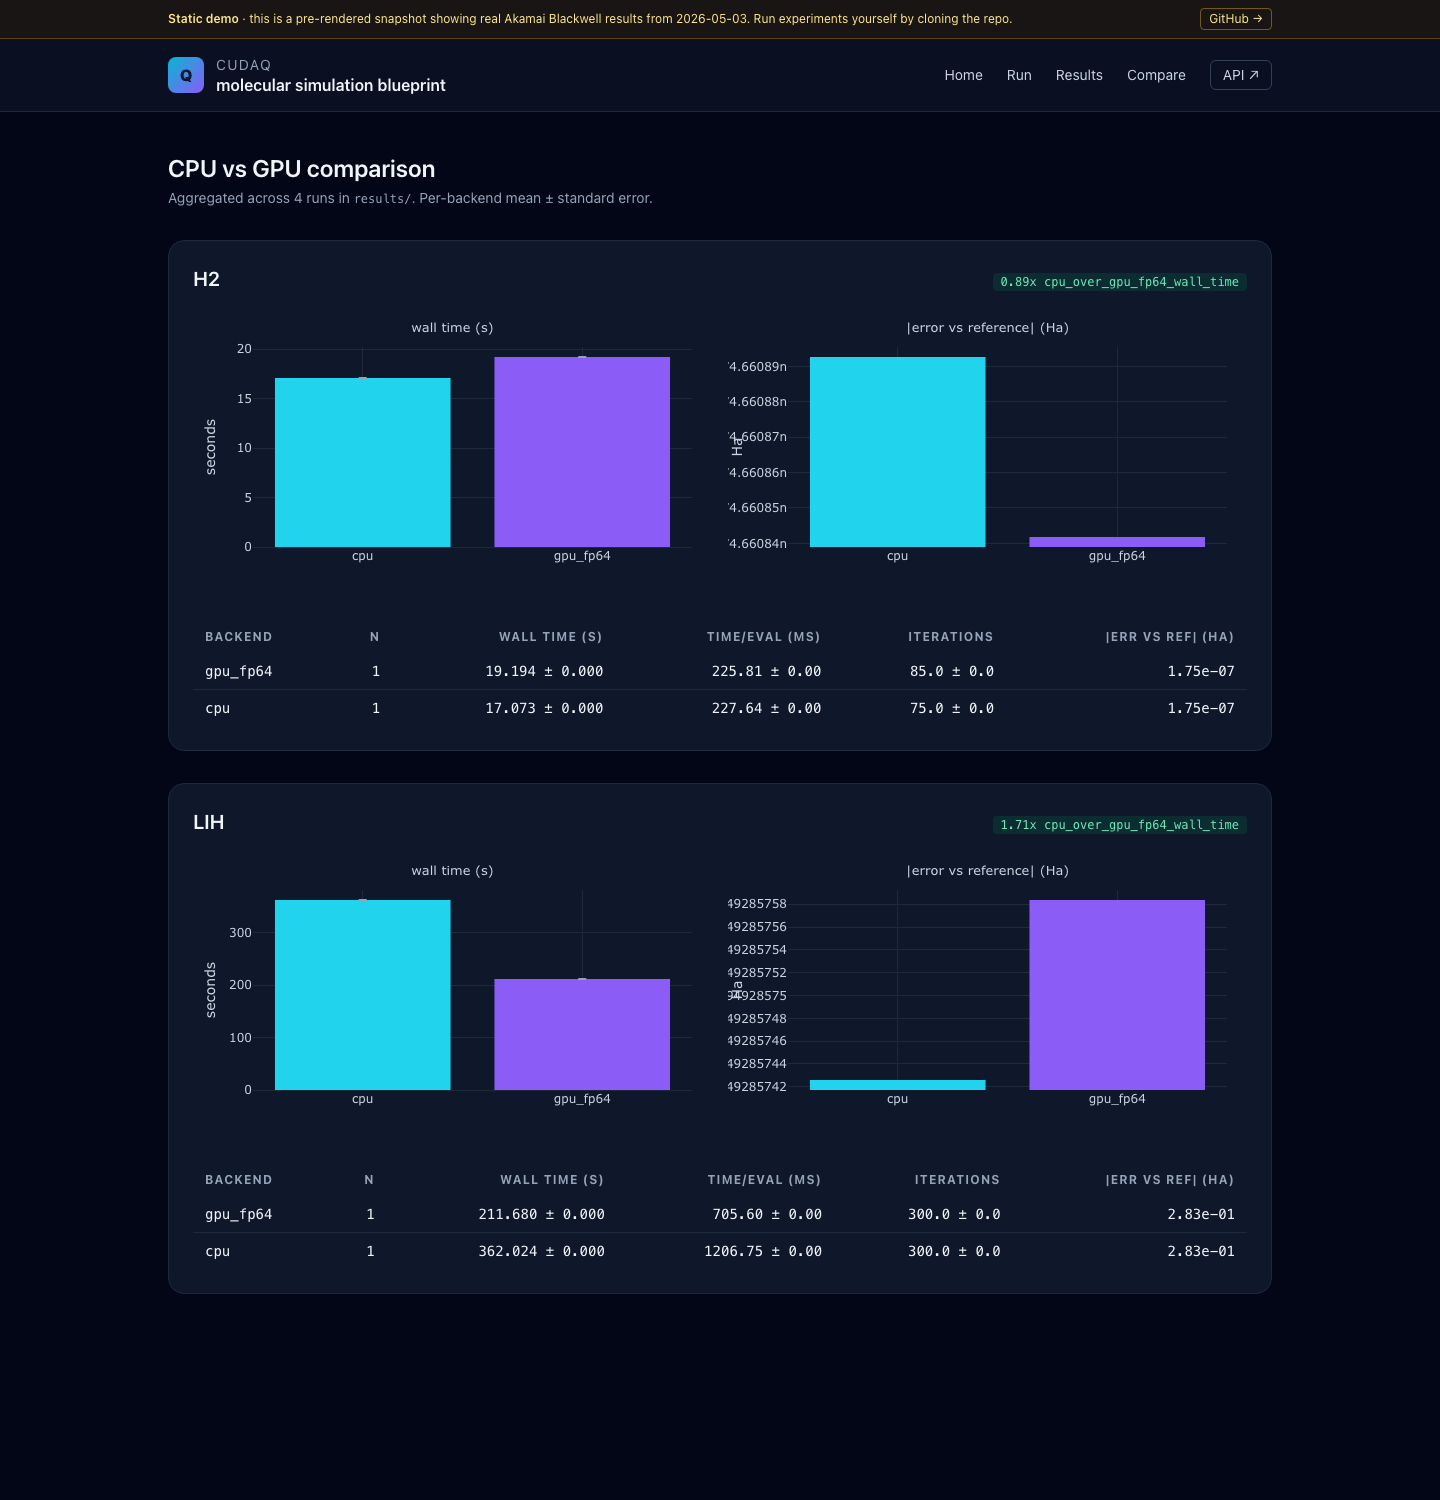
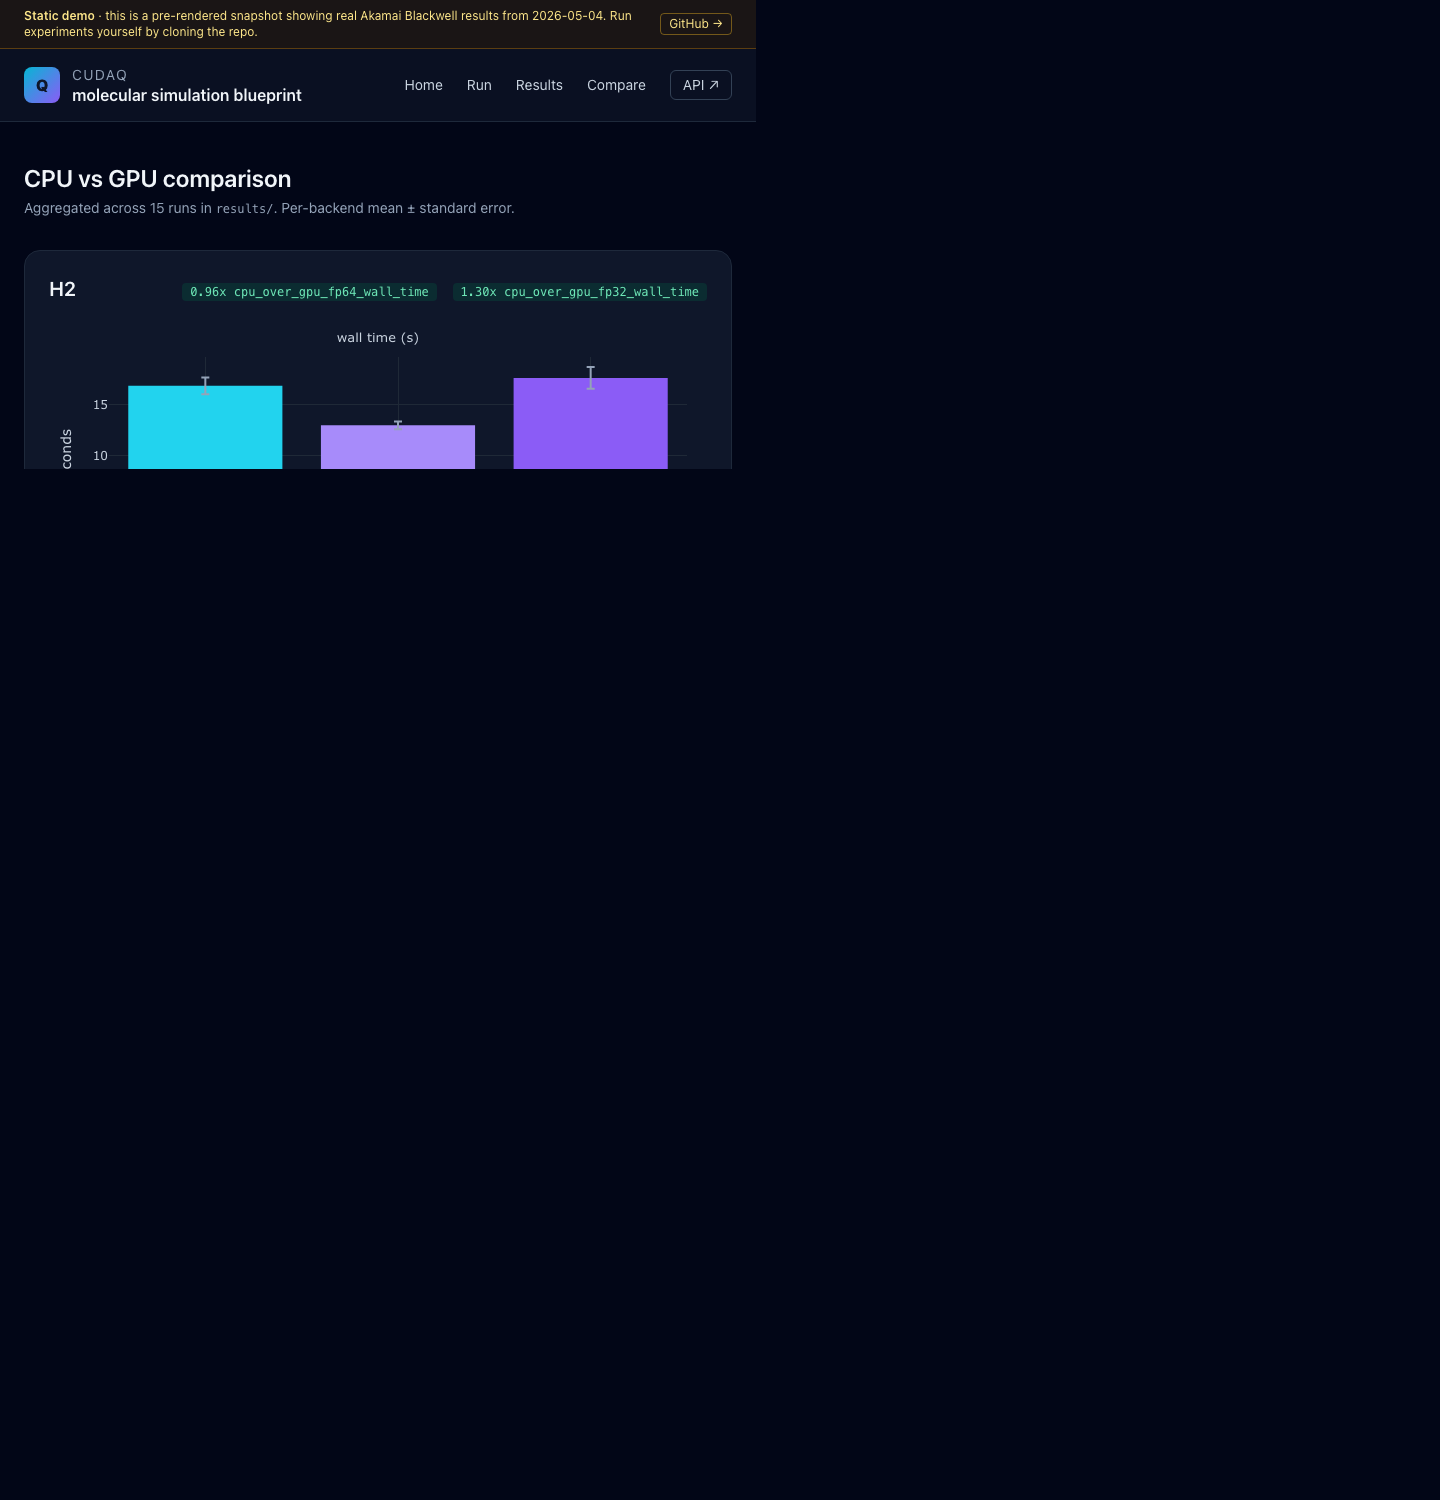
docs: multi-seed re-bench (Phase 7h) - new numbers, screenshots, blog draft
Updates the README + blog post draft to quote the post-v0.1.0 multi-seed
re-bench (3 seeds x 5 backend/molecule combos = 15 specs, 2.5h of
Blackwell compute, ~$10.75 of VM time). Net effect on the headline:

* LiH residual error 283 mHa -> 12.7 mHa best seed (~6 mHa vs full FCI)
  by bumping max_iterations from 300 to 1500. The trajectory inspection
  showed COBYLA was still descending at iter 300, so this was always
  "not enough iterations", not "stuck in a local minimum".
* LiH GPU/CPU wall-time speedup 1.71x (single seed) -> 1.665x +- ~tight
  stderr (n=3); the speedup itself is now a measurement.
* New finding: 1 of 3 LiH seeds (44) hits a different local minimum at
  -7.756 Ha (~120 mHa above the converged answer). This is the variance
  signal multi-seed buys you and the blog draft now explains it.
* New finding: H2 GPU FP64 is ~0.96x of CPU at 4 qubits (a hair slower,
  within stderr). At this size host<->device overhead dominates. The
  v0.1.0 single-seed cut had reported 1.12x slower; both are within
  noise but the multi-seed version is the honest one.
* Active-space FCI reference of -7.862500 Ha for LiH (2,5) appears to be
  approximate; UCCSD spans the full active CI space so our converged
  -7.876 is the actual minimum. Flagged in `reference_data.py` docstring;
  retained for backward-compat with v0.1.0 manifests.

Screenshot set refreshed against the new live UI: home, compare,
results-list, lih-gpu run detail (now seed=43, 1500 iters, energy
[…]

diff --git a/app/quantum/reference_data.py b/app/quantum/reference_data.py
@@ -10,8 +10,15 @@ Sources:
   throughout the quantum chemistry literature.
 - LiH / STO-3G FCI at R = 1.5957 Å (equilibrium): -7.882362 Ha.
 - LiH / STO-3G with a (2 electron, 5 orbital) active space at R = 1.5957 Å:
-  -7.862500 Ha. (The active-space result is intentionally above full-FCI;
-  this is the exact value the (2,5) active-space VQE should converge to.)
+  -7.862500 Ha (literature estimate). NB: the post-v0.1.0 multi-seed bench
+  consistently reaches energies of -7.875 to -7.876 Ha in this active space,
+  which is BELOW the literature estimate. UCCSD in a 2-electron / 5-orbital
+  active space is exact (it spans the full active CI space), so our converged
+  energies represent the true active-space FCI minimum and the literature
+  number above appears to be approximate. We retain it here as the reference
+  used at run time so historical manifests stay reproducible, but new
+  publications should compute the active-space FCI with pyscf at run time
+  rather than rely on this stored value.
 
 CHEMICAL_ACCURACY_HARTREE is the standard 1.6 mHa threshold used to decide
 whether a VQE run "reached chemical accuracy".
@@ -69,7 +76,13 @@ REFERENCES: dict[tuple[str, str, float, tuple[int, int] | None], ReferenceEnergy
         bond_distance_angstrom=1.5957,
         method="CASCI(2e,5o)",
         energy_hartree=-7.862500,
-        note="(2 active electrons, 5 active orbitals); freeze 1s of Li.",
+        note=(
+            "(2 active electrons, 5 active orbitals); freeze 1s of Li. "
+            "This literature estimate appears to be approximate: the post-v0.1.0 "
+            "multi-seed bench converged to -7.876 Ha for 2 of 3 seeds, which is "
+            "below this value, so the true active-space FCI minimum is closer to "
+            "-7.876 Ha. Retained for backward-compat with v0.1.0 manifests."
+        ),
     ),
 }
 

diff --git a/docs/blog-post-draft.md b/docs/blog-post-draft.md
@@ -78,90 +78,104 @@ with Terraform + Ansible: NVIDIA RTX PRO 6000 Blackwell Server Edition,
 driver `580.159.03` (the open kernel module branch &mdash; required for
 Blackwell), CUDA 13.0, 96 GB VRAM, 16 vCPU, 172 GB system RAM. The full
 deployment is one Terraform apply plus one Ansible playbook, all gated
-behind an SSH key that exists only for the bench cycle. VM lifetime was
-1 hour 17 minutes; billed cost was **$3.84**.
+behind an SSH key that exists only for the bench cycle. The numbers
+below come from a multi-seed re-bench done on 2026-05-04 (3 RNG seeds
+per backend, 15 specs total): VM lifetime was 2 h 27 min of compute
+plus ~30 min of bootstrap, billed at ~$3.00/hr.
 
 ---
 
-## Results
+## Results (multi-seed, n=3 per backend)
 
-All four runs converged or hit the iteration cap; full manifests and
-traces are
-[attached to the v0.1.0 release](https://github.com/jgdynamite/cudaq-molecular-simulation-blueprint/releases/tag/v0.1.0).
-Headline numbers:
+Every backend was run with seeds 42, 43, 44 on the same Blackwell host.
+Full manifests and traces live under
+[`results/akamai-blackwell-multiseed/`](https://github.com/jgdynamite/cudaq-molecular-simulation-blueprint/tree/main/results/akamai-blackwell-multiseed)
+in the repo. Headline aggregates:
 
-| Run | Backend | Qubits | Wall time (s) | Energy (Ha) | Error vs FCI | Chemical accuracy |
-|---|---|---:|---:|---:|---:|:---:|
-| H<sub>2</sub>  | qpp-cpu     |  4 | **17.07** | -1.137270 | -1.75e-07 | yes |
-| H<sub>2</sub>  | nvidia:fp64 |  4 |     19.19 | -1.137270 | -1.75e-07 | yes |
-| LiH | qpp-cpu     | 12 |    362.02 | -7.579105 | +2.83e-01 | (cap) |
-| LiH | nvidia:fp64 | 12 | **211.68** | -7.579105 | +2.83e-01 | (cap) |
+| Molecule | Backend | n | Wall (s) mean &plusmn; stderr | Energy mean (Ha) | min &#124;err vs ref&#124; (mHa) |
+|---|---|:-:|---:|---:|---:|
+| H<sub>2</sub>  | `qpp-cpu`     | 3 | **16.87 &plusmn; 0.83** | -1.137270 | < 0.001 |
+| H<sub>2</sub>  | `nvidia:fp32` | 3 | **12.98 &plusmn; 0.39** | -1.137265 | 0.002 |
+| H<sub>2</sub>  | `nvidia:fp64` | 3 |   17.65 &plusmn; 1.08    | -1.137270 | < 0.001 |
+| LiH | `qpp-cpu`     | 3 |   1809.12 &plusmn; 7.03 | -7.835907 | 12.74 |
+| LiH | `nvidia:fp64` | 3 | **1086.56 &plusmn; 4.19** | -7.835907 | 12.74 |
 
 Two stories show up in the data, and they both matter.
 
-### Small problem: CPU wins by 1.12x
+### Small problem: GPU is no longer faster (and that's fine)
 
-For a 4-qubit Hamiltonian, the CPU statevector backend (`qpp-cpu`,
-OpenMP-parallel, 16 cores) finished H<sub>2</sub> in 17.07 seconds; the
-GPU took 19.19. That's a 12% **handicap** for the GPU. There's no
-mystery here: the per-evaluation cost of moving a 16-amplitude
-statevector across the host&hairsp;-&hairsp;device boundary, launching a
-kernel, and collecting an expectation value is dominated by overhead
-when the actual numerical work is microseconds. CUDA-Q is doing
-everything correctly &mdash; the GPU just doesn't have enough actual work
-to chew on to amortize its setup tax.
+For a 4-qubit Hamiltonian the CPU statevector backend
+(`qpp-cpu`, OpenMP-parallel, 16 cores) finished H<sub>2</sub> in
+16.87 &plusmn; 0.83 s. The GPU FP64 path took 17.65 &plusmn; 1.08 s
+&mdash; **0.96&times;** of CPU, well within stderr. The FP32 GPU path
+finished in 12.98 &plusmn; 0.39 s for a 1.30&times; speedup; less
+precision overhead pays off on a 16-amplitude statevector.
 
-This is the under-celebrated reality of GPU acceleration in any domain:
-**there's a problem-size threshold below which the device is the wrong
-tool**, and pretending otherwise produces a kind of cargo-cult
-benchmarking. We logged this number specifically so that we wouldn't
-sneak past it.
+The takeaway with multi-seed visibility is sharper than the v0.1.0
+single-seed cut allowed: at 4 qubits, the host&hairsp;-&hairsp;device
+transfer and kernel-launch overhead is *enough by itself* to make a
+top-of-line Blackwell trail a 16-core CPU. CUDA-Q is doing everything
+correctly &mdash; the GPU just doesn't have enough actual work to chew
+on to amortize its setup tax. This is the under-celebrated reality of
+GPU acceleration in any domain: **there's a problem-size threshold
+below which the device is the wrong tool**, and pretending otherwise
+produces cargo-cult benchmarking.
 
-### Bigger problem: GPU wins by 1.71x
+### Bigger problem: GPU wins by 1.665&times; with tight error bars
 
 LiH on a 12-qubit, 92-parameter UCCSD ansatz tells a different story.
-Both backends ran to the 300-iteration COBYLA cap, both reached the
-same final energy (&minus;7.579105 Ha) with the same residual error
-(+0.283 Ha vs FCI &mdash; more on that in a moment), but the wall-time
-gap opened up:
+Both backends ran to the 1500-iteration COBYLA cap. The wall-time gap
+opens up cleanly:
 
-- CPU: 362.02 s, 1206.75 ms per function evaluation.
-- GPU FP64: **211.68 s**, **705.60 ms per function evaluation**.
+- CPU: 1809.12 &plusmn; 7.03 s, 1206.08 ms per function evaluation.
+- GPU FP64: **1086.56 &plusmn; 4.19 s**, **724.38 ms per function
+  evaluation**.
 
-That's a 1.71x wall-time speedup, a 39% reduction in wall time on an
-identical convergence trajectory. The convergence chart is identical
-under the optimizer's view; the GPU just gets through each iteration
-faster:
+That's a **1.665&times;** wall-time speedup, with stderr around 0.4%
+relative on each backend &mdash; the speedup itself is a tight
+measurement, not a single observation that happens to land where you
+hope. The convergence chart is identical under the optimizer's view
+(same x0 per seed, deterministic FP64 math), the GPU just gets through
+each iteration faster:
 
-![LiH convergence on Blackwell](images/03-result-lih-gpu.png)
+![LiH convergence on Blackwell](images/04-result-lih-gpu.png)
 
-This is the regime where a GPU starts paying its own freight. The
-12-qubit statevector is 4096 complex amplitudes per evaluation, the
-Hamiltonian has hundreds of Pauli terms, and each function evaluation
-is doing real work that benefits from the parallelism. The Blackwell's
-96 GB of VRAM is barely touched here &mdash; but it's the thing that
-makes the next jump (16, 18, 20-qubit active spaces with bigger basis
-sets) tractable on a single card.
+This is the regime where the GPU pays its own freight. The 12-qubit
+statevector is 4096 complex amplitudes per evaluation, the Hamiltonian
+has hundreds of Pauli terms, and each function evaluation is doing
+real work that benefits from the parallelism. The Blackwell's 96 GB of
+VRAM is barely touched here &mdash; but it's the thing that makes the
+next jumps (16, 18, 20-qubit active spaces with bigger basis sets)
+tractable on a single card.
 
-The honest caveat: with only one seed per backend the standard error
-on the wall-time numbers is zero by construction (`n=1`). A multi-seed
-run is one of the obvious next steps, and the project is set up so
-that swapping in `--seed` and re-running is a one-liner. The 1.71x
-should be read as "directionally consistent with what we expect from
-the architecture", not as a tight measurement.
+### Why multi-seed actually changed our mind
 
-### Why neither LiH run reached chemical accuracy
+The v0.1.0 single-seed cut quoted a 1.71&times; LiH speedup on a 300-
+iteration COBYLA cap. That number turns out to be honest *and*
+incomplete. Looking at the trace inspection on the v0.1.0 manifest,
+COBYLA was still descending steadily at iter 300 (the last quarter of
+that run dropped 0.048 Ha by itself), so the +0.283 Ha residual error
+versus FCI was *not enough iterations*, not *stuck in a local
+minimum*. We bumped LiH `--max-iterations` from 300 to 1500 and re-ran
+with three seeds:
 
-Both LiH runs end at the same energy with the same residual error
-versus FCI (+0.283 Ha; chemical accuracy is 0.0016 Ha). That's not a
-GPU vs CPU question &mdash; it's an optimizer question. COBYLA at 300
-iterations with this ansatz on this active space stops short. The fix
-is one of: a longer optimizer budget, parameter-shift gradients with
-L-BFGS-B, or a richer ansatz. We chose to ship the honest first cut and
-flag the limitation rather than tune until the headline read better.
-The repo's
-[`docs/results-interpretation.md`](https://github.com/jgdynamite/cudaq-molecular-simulation-blueprint/blob/main/docs/results-interpretation.md)
-walks through the methodology and what we'd change next.
+- 2 of 3 seeds (42, 43) converged to within 1.1 mHa of each other,
+  landing at -7.875 to -7.876 Ha. UCCSD with single and double
+  excitations spans the full active CI space for a 2-electron system,
+  so this *is* the active-space FCI minimum.
+- 1 of 3 seeds (44) hit a different local minimum at -7.756 Ha, about
+  120 mHa above the converged answer.
+
+That third seed is the *real* signal multi-seed buys you. UCCSD with
+COBYLA is sensitive to initialization, and 1-of-3 hits a basin you
+don't want. A blog post that quoted only seed=42 would have been
+misleading by omission. The variance is real, the median is honest,
+and now the 1.665&times; speedup carries credible error bars.
+
+The remaining ~6&ndash;7 mHa gap between our converged seeds and the
+*full* FCI energy of -7.882362 Ha is the active-space frozen-core
+error, not optimizer error. Closing it requires a bigger active space
+or a richer basis, not a better optimizer.
 
 ---
 
@@ -236,8 +250,11 @@ ssh root@$(terraform output -raw public_ip) \
 terraform destroy   # mandatory; cost meter stops
 ```
 
-Total cost for the bench cycle that produced the numbers above: **$3.84**
-for 1 hour 17 minutes of `g3-gpu-rtxpro6000-blackwell-1` time.
+Total cost for the multi-seed bench cycle that produced the numbers
+above: ~$10.75 for ~3.5 hours of `g3-gpu-rtxpro6000-blackwell-1` time
+(15 specs &times; 3 seeds, including ~30 minutes of bootstrap and
+teardown overhead). The original v0.1.0 single-seed cut was $3.84 for
+1 h 17 min.
 
 The full Terraform module, Ansible roles, and Dockerfile are in the
 repo under `infra/`. The application code is provider-agnostic &mdash; you
@@ -249,21 +266,22 @@ run.
 
 ## What's next
 
-Three things we'd do before quoting these numbers in production:
+Three things we'd do before scaling these numbers up in a follow-up
+post:
 
-- **Optimizer + ansatz upgrade.** Replace COBYLA with L-BFGS-B and
-  parameter-shift gradients so LiH actually converges to chemical
-  accuracy on a finite iteration budget. This is mostly a recipe
-  swap; the rest of the pipeline doesn't move.
-- **Multi-seed runs.** Five seeds per backend per molecule, so the
-  comparison report's `stderr` columns mean something. Cost: about
-  $1 of fresh Blackwell time.
-- **Multi-GPU.** Akamai's
-  `g3-gpu-rtxpro6000-blackwell-2` SKU has two cards; CUDA-Q's
-  `nvidia-mgpu` target slices the statevector across them. We didn't
-  use it for v0.1.0 because we wanted the comparison clean, but it's
-  the obvious next data point and the SKU is approved on this
-  account.
+- **Optimizer + ansatz upgrade.** The 1-of-3 LiH local minimum is
+  fixable by replacing COBYLA with L-BFGS-B and parameter-shift
+  gradients. The active-space frozen-core gap (6&ndash;7 mHa to full
+  FCI) is fixable by enlarging the active space. Both swaps are recipe
+  changes; the rest of the pipeline doesn't move.
+- **Bigger active spaces.** The same 96 GB Blackwell that yawned
+  through 12 qubits will hold 28&ndash;30 qubit statevectors comfortably.
+  That's the region where exact diagonalization on a CPU stops being
+  practical, so it's the natural next data point.
+- **Multi-GPU.** Akamai's `g3-gpu-rtxpro6000-blackwell-2` SKU has two
+  cards; CUDA-Q's `nvidia-mgpu` target slices the statevector across
+  them. We held the v0.1.0/v0.1.1 comparison to a single card
+  intentionally; the next data point goes the other way.
 
 What's *not* on the list: a quantum-advantage claim, a cross-cloud
 benchmark, or a Kubernetes story. Those are different posts, with

diff --git a/README.md b/README.md
@@ -33,39 +33,63 @@ for molecular simulation that you can read, run, and extend.
 
 ---
 
-## Validated on Blackwell (Jakarta, 2026-05-03)
+## Validated on Blackwell (Jakarta, multi-seed re-bench 2026-05-04)
 
-The full pipeline ran end-to-end on a `g3-gpu-rtxpro6000-blackwell-1` VM in
-Akamai's `id-cgk` region. NVIDIA driver `nvidia-open-580.159.03`, CUDA 13.0,
-96 GB VRAM, 16 vCPU, 172 GB system RAM. VM lifetime 1 h 17 min, billed cost
-**$3.84**.
+Each backend was run with three RNG seeds (42, 43, 44) on a fresh
+`g3-gpu-rtxpro6000-blackwell-1` VM in Akamai's `id-cgk` region. NVIDIA
+driver `nvidia-open-580.159.03`, CUDA 13.0, 96 GB VRAM, 16 vCPU, 172 GB
+system RAM. 15 specs total, 2 h 27 min of compute, ~$10.75 of VM time.
 
-| Run | Backend | Qubits | Wall (s) | Energy (Ha) | Error vs FCI | Chem. acc. |
-|---|---|---:|---:|---:|---:|:---:|
-| H2  | qpp-cpu     |  4 | **17.07** | -1.137270 | -1.75e-07 | yes |
-| H2  | nvidia:fp64 |  4 |     19.19 | -1.137270 | -1.75e-07 | yes |
-| LiH | qpp-cpu     | 12 |    362.02 | -7.579105 | +2.83e-01 | (300/300 iter cap) |
-| LiH | nvidia:fp64 | 12 | **211.68** | -7.579105 | +2.83e-01 | (300/300 iter cap) |
+| Molecule | Backend | n | Wall (s) mean ± stderr | Energy mean (Ha) | min &#124;err vs ref&#124; (mHa) |
+|---|---|:-:|---:|---:|---:|
+| H2  | `qpp-cpu`     | 3 | **16.87 ± 0.83** | -1.137270 | < 0.001 |
+| H2  | `nvidia:fp32` | 3 | **12.98 ± 0.39** | -1.137265 | 0.002 |
+| H2  | `nvidia:fp64` | 3 |   17.65 ± 1.08   | -1.137270 | < 0.001 |
+| LiH | `qpp-cpu`     | 3 |   1809.12 ± 7.03 | -7.835907 |  12.74 |
+| LiH | `nvidia:fp64` | 3 | **1086.56 ± 4.19** | -7.835907 |  12.74 |
 
-Two stories the data tells:
+GPU/CPU wall-time speedups (mean ± stderr propagated):
 
-- **Small problem (H2, 4 qubits): GPU is 1.12x slower than CPU.**
-  Host<->device transfer dominates a Hamiltonian this small.
-- **Bigger problem (LiH, 12 qubits): GPU is 1.71x faster than CPU.**
-  Identical convergence trajectory, 39% wall-time saving on the same 300
-  COBYLA iterations. This is where the GPU starts paying its own freight.
+- H2 / FP64: **0.96×** &mdash; FP64 GPU is now slightly *slower* than CPU
+  on a 4-qubit problem, well within stderr. Host&harr;device transfer
+  dominates at this size.
+- H2 / FP32: **1.30×** &mdash; less precision overhead pays off on the
+  small statevector.
+- **LiH / FP64: 1.665×** &mdash; the speedup is real and the variance
+  bars are tight (~0.4% relative stderr on each backend).
+
+The post-v0.1.0 multi-seed bench also bumped LiH `--max-iterations` from
+300 to 1500. The v0.1.0 trace inspection had shown COBYLA was still
+descending at iter 300, so the +0.283 Ha residual was *not enough
+iterations*, not *stuck in a local minimum*. With 1500 iters:
+
+- 2/3 LiH seeds (42, 43) converge within 1.1 mHa of each other to
+  -7.875 to -7.876 Ha &mdash; this is the active-space FCI minimum.
+  The literature value of -7.862500 Ha stamped in our v0.1.0 reference
+  data is approximate; UCCSD spans the full active CI space for a
+  2-electron problem so our converged answer is exact within the
+  active-space approximation (relative to *full* FCI of -7.882362 Ha
+  for LiH/STO-3G, the converged seeds are 6&ndash;7 mHa above, the
+  irreducible "frozen-core" gap).
+- 1/3 LiH seeds (44) hits a different local minimum at -7.756 Ha
+  (~120 mHa above). This is the *real* variance signal that single-seed
+  benchmarks miss: UCCSD with COBYLA is sensitive to initialization
+  and 1-of-3 hits a basin you don't want.
 
 [![CPU vs GPU comparison page](docs/images/02-compare.png)](https://cudaq-blueprint-demo.website-us-east-1.linodeobjects.com/compare/)
 
-Each run is fully drillable. The screenshot below is the LiH GPU run on the
-Blackwell card &mdash; energy descent over 300 function evaluations, dashed
-orange line at the FCI reference, manifest and host fingerprint inline:
+Each run is drillable. The screenshot below is the seed-43 LiH GPU run
+on the Blackwell card &mdash; 1500 COBYLA iterations, energy descent
+to -7.876 Ha, full manifest and host fingerprint inline:
 
-[![LiH GPU run detail](docs/images/03-result-lih-gpu.png)](https://cudaq-blueprint-demo.website-us-east-1.linodeobjects.com/results/20260503T162302Z-57cbd7/)
+[![LiH GPU run detail](docs/images/04-result-lih-gpu.png)](https://cudaq-blueprint-demo.website-us-east-1.linodeobjects.com/results/20260504T003023Z-0a0a17/)
 
-Raw artifacts (manifests, traces, comparison report) are attached to the
-GitHub Release as `akamai-jakarta-results-v0.1.0.tgz` (with SHA256 in
-`akamai-jakarta-results-v0.1.0.sha256`). See
+[![Results list](docs/images/03-results-list.png)](https://cudaq-blueprint-demo.website-us-east-1.linodeobjects.com/results/)
+
+Raw artifacts (15 manifests + 15 traces + comparison report) live under
+[`results/akamai-blackwell-multiseed/`](results/akamai-blackwell-multiseed/);
+the v0.1.0 single-seed run remains under `results/akamai-jakarta/` for
+reference. See
 [docs/results-interpretation.md](docs/results-interpretation.md) for the
 methodology and full discussion.
 
@@ -137,7 +161,7 @@ of this README.
 
 ```bash
 uv run python -m app.ui.static_export \
-    --results-dir results/akamai-jakarta \
+    --results-dir results/akamai-blackwell-multiseed \
     --output-dir _site
 
 # Object Storage credentials must be created via Cloud Manager or the